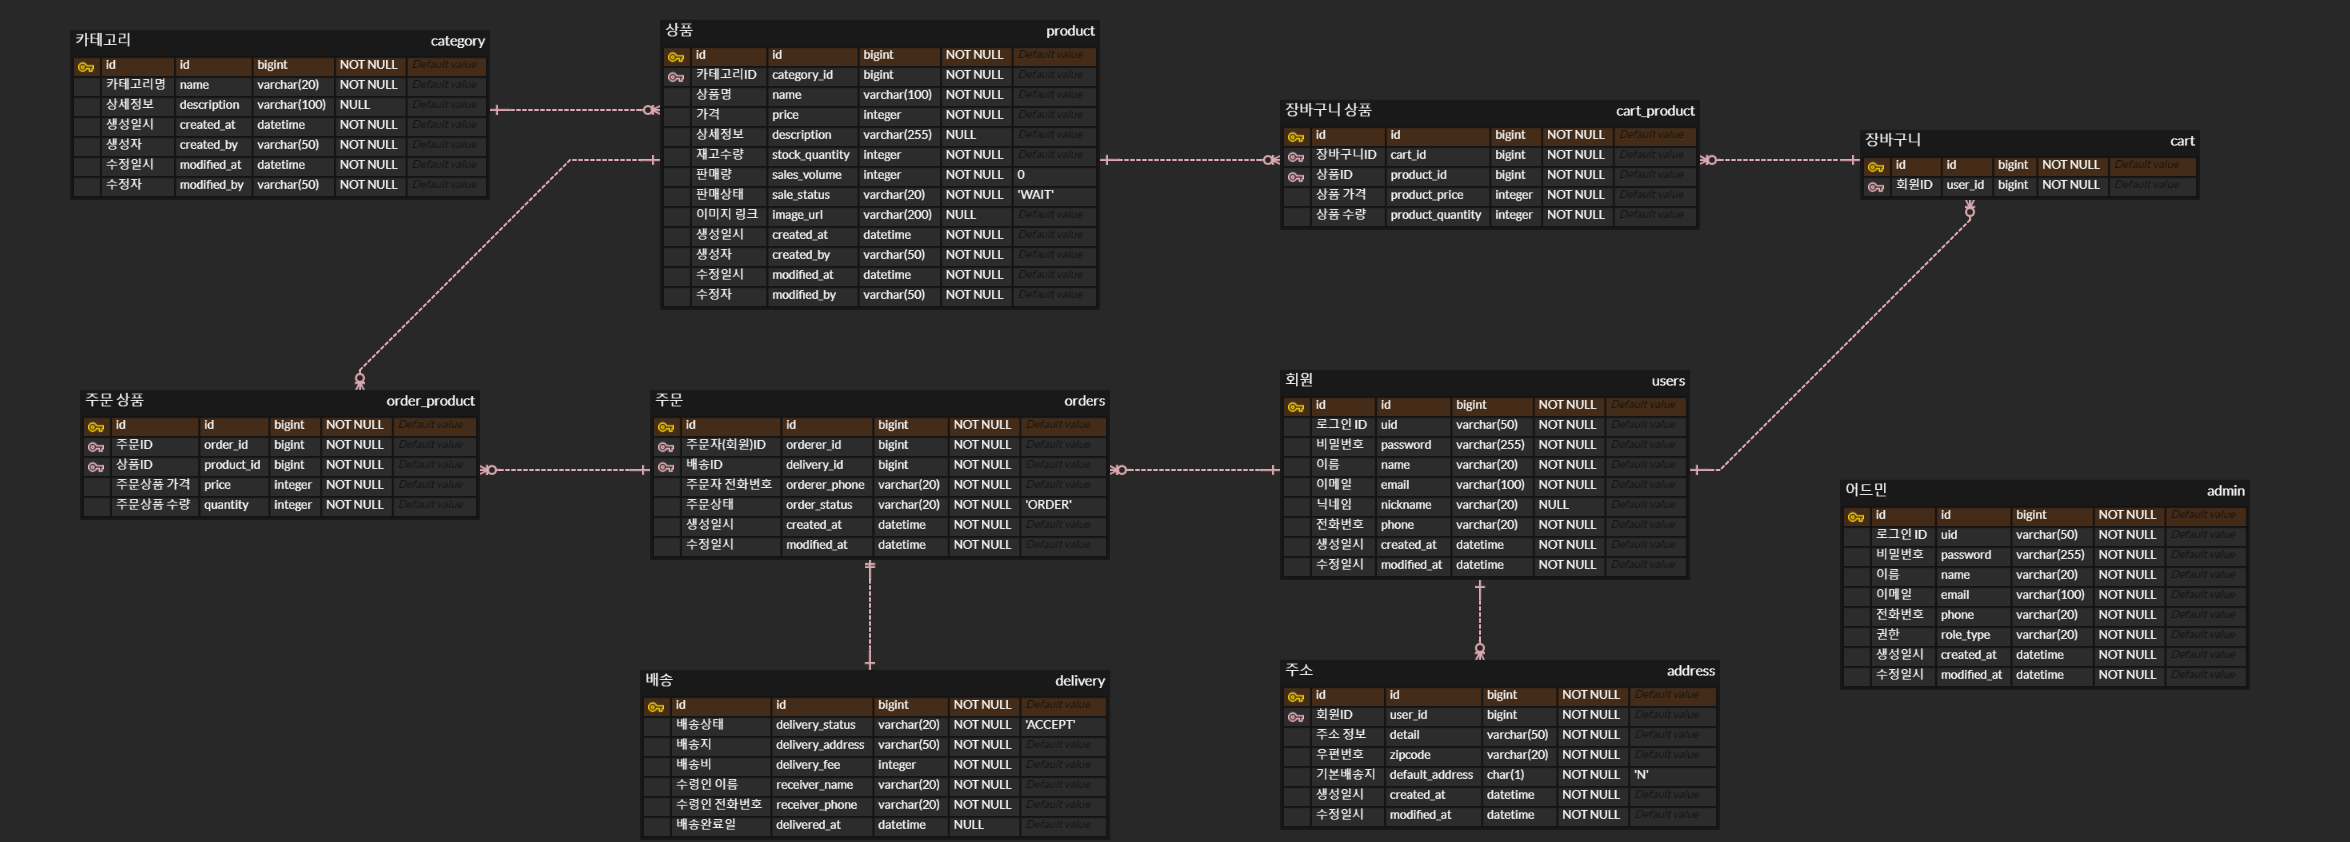
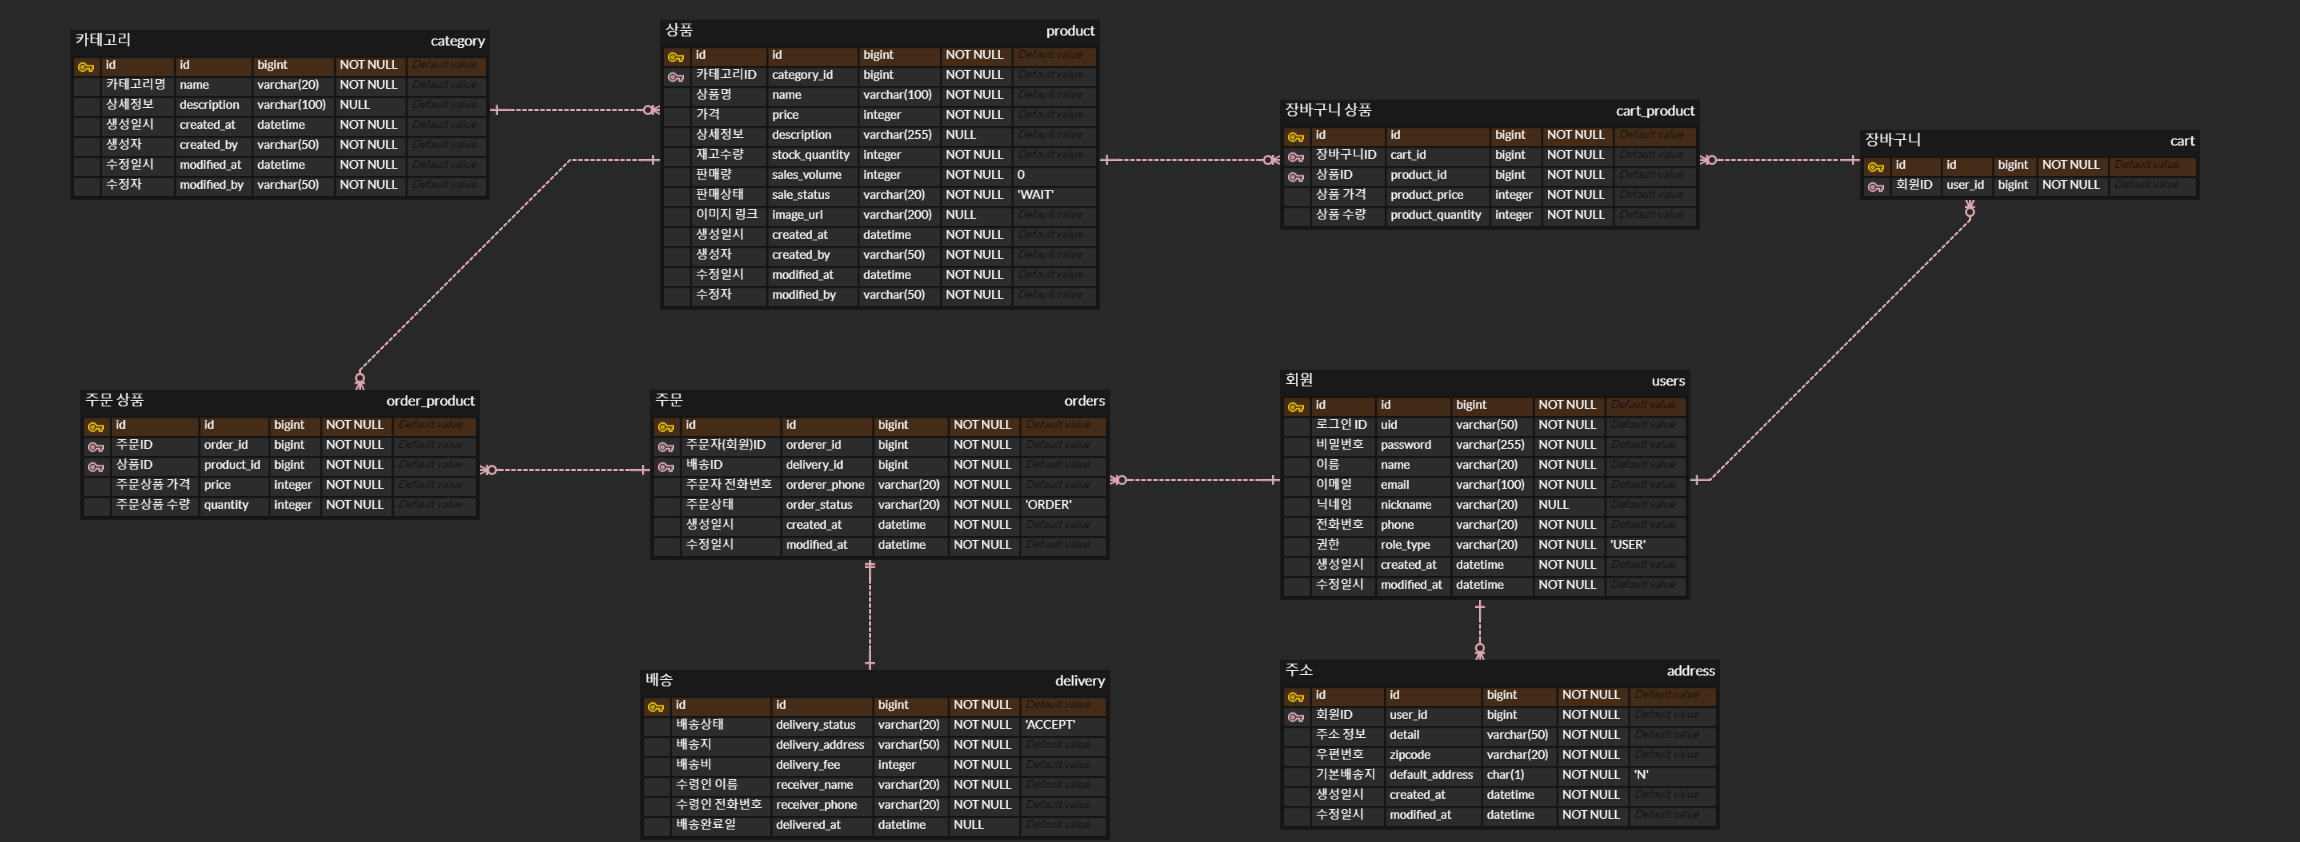
#41 - Admin 도메인 삭제
로그인을 구현하던 중, `User`와 `Admin`을 따로 두니까
시큐리티 검증할 때 어떻게 해야할 지 모르겠어서
`Admin`을 삭제하고, `User` 테이블로 합친 후 여기에 권한을 추가해줌.

diff --git a/src/main/java/com/been/onlinestore/service/UserService.java b/src/main/java/com/been/onlinestore/service/UserService.java
@@ -1,9 +1,8 @@
 package com.been.onlinestore.service;
 
-import com.been.onlinestore.domain.Admin;
 import com.been.onlinestore.domain.User;
 import com.been.onlinestore.domain.constant.RoleType;
-import com.been.onlinestore.repository.AdminRepository;
+import com.been.onlinestore.dto.UserDto;
 import com.been.onlinestore.repository.UserRepository;
 import lombok.RequiredArgsConstructor;
 import org.springframework.stereotype.Service;
@@ -17,53 +16,32 @@ import java.util.Optional;
 public class UserService {
 
     private final UserRepository userRepository;
-    private final AdminRepository adminRepository;
 
     public Long signUp(String uid, String password, String name, String email, String nickname, String phone, RoleType roleType) {
+        validateDuplicateUid(uid);
+        validateDuplicateEmail(email);
         if (roleType == null) {
-            return signUpUser(uid, password, name, email, nickname, phone);
+            return userRepository.save(User.of(uid, password, name, email, nickname, phone)).getId();
         } else {
-            return signUpAdmin(uid, password, name, email, phone, roleType);
+            return userRepository.save(User.of(uid, password, name, email, nickname, phone, roleType)).getId();
         }
     }
 
-    private Long signUpUser(String uid, String password, String name, String email, String nickname, String phone) {
-        validateDuplicateUserUid(uid);
-        validateDuplicateUserEmail(email);
-        return userRepository.save(User.of(uid, password, name, email, nickname, phone)).getId();
+    public Optional<UserDto> searchUser(String uid) {
+        return userRepository.findByUid(uid).map(UserDto::from);
     }
 
-    private Long signUpAdmin(String uid, String password, String name, String email, String phone, RoleType roleType) {
-        validateDuplicateAdminUid(uid);
-        validateDuplicateAdminEmail(email);
-        return adminRepository.save(Admin.of(uid, password, name, email, phone, roleType)).getId();
+    private void validateDuplicateUid(String uid) {
+        userRepository.findByUid(uid)
+                .ifPresent(user -> {
+                    throw new IllegalStateException("중복 ID 입니다.");
+                });
     }
 
-    private void validateDuplicateUserUid(String uid) {
-        Optional<User> user = userRepository.findByUid(uid);
-        if (user.isPresent()) {
-            throw new IllegalStateException("중복 ID 입니다.");
-        }
-    }
-
-    private void validateDuplicateUserEmail(String email) {
-        Optional<User> user = userRepository.findByEmail(email);
-        if (user.isPresent()) {
-            throw new IllegalStateException("이미 가입한 회원입니다.");
-        }
-    }
-
-    private void validateDuplicateAdminUid(String uid) {
-        Optional<Admin> admin = adminRepository.findByUid(uid);
-        if (admin.isPresent()) {
-            throw new IllegalStateException("중복 ID 입니다.");
-        }
-    }
-
-    private void validateDuplicateAdminEmail(String email) {
-        Optional<Admin> admin = adminRepository.findByEmail(email);
-        if (admin.isPresent()) {
-            throw new IllegalStateException("이미 가입한 회원입니다.");
-        }
+    private void validateDuplicateEmail(String email) {
+        userRepository.findByEmail(email)
+                .ifPresent(user -> {
+                    throw new IllegalStateException("이미 가입한 회원입니다.");
+                });
     }
 }

diff --git a/src/test/java/com/been/onlinestore/service/UserServiceTest.java b/src/test/java/com/been/onlinestore/service/UserServiceTest.java
@@ -1,8 +1,7 @@
 package com.been.onlinestore.service;
 
-import com.been.onlinestore.domain.Admin;
 import com.been.onlinestore.domain.User;
-import com.been.onlinestore.repository.AdminRepository;
+import com.been.onlinestore.dto.UserDto;
 import com.been.onlinestore.repository.UserRepository;
 import org.junit.jupiter.api.DisplayName;
 import org.junit.jupiter.api.Test;
@@ -10,6 +9,8 @@ import org.junit.jupiter.api.extension.ExtendWith;
 import org.mockito.InjectMocks;
 import org.mockito.Mock;
 import org.mockito.junit.jupiter.MockitoExtension;
+
+import java.util.Optional;
 
 import static com.been.onlinestore.util.UserTestDataUtil.createAdmin;
 import static com.been.onlinestore.util.UserTestDataUtil.createUser;
@@ -23,7 +24,6 @@ import static org.mockito.BDDMockito.then;
 class UserServiceTest {
 
     @Mock private UserRepository userRepository;
-    @Mock private AdminRepository adminRepository;
 
     @InjectMocks private UserService sut;
 
@@ -54,8 +54,8 @@ class UserServiceTest {
     @Test
     void test_signUpAdmin() {
         //Given
-        Admin admin = createAdmin();
-        given(adminRepository.save(any())).willReturn(admin);
+        User admin = createAdmin();
+        given(userRepository.save(any())).willReturn(admin);
 
         //When
         Long id = sut.signUp(
@@ -63,13 +63,43 @@ class UserServiceTest {
                 admin.getPassword(),
                 admin.getName(),
                 admin.getEmail(),
-                null,
+                admin.getNickname(),
                 admin.getPhone(),
                 admin.getRoleType()
         );
 
         //Then
         assertThat(id).isEqualTo(admin.getId());
-        then(adminRepository).should().save(any());
+        then(userRepository).should().save(any());
+    }
+
+    @DisplayName("존재하는 회원 ID를 검색하면, 회원 데이터를 Optional로 반환한다.")
+    @Test
+    void test_searchExistentUser() {
+        //Given
+        String uid = "user";
+        given(userRepository.findByUid(uid)).willReturn(Optional.of(createUser(uid)));
+
+        //When
+        Optional<UserDto> result = sut.searchUser(uid);
+
+        //Then
+        assertThat(result).isPresent();
+        then(userRepository).should().findByUid(uid);
+    }
+
+    @DisplayName("존재하지 않는 회원 ID를 검색하면, 비어있는 Optional을 반환한다.")
+    @Test
+    void test_searchNonExistentUser() {
+        //Given
+        String uid = "wrong-user";
+        given(userRepository.findByUid(uid)).willReturn(Optional.empty());
+
+        //When
+        Optional<UserDto> result = sut.searchUser(uid);
+
+        //Then
+        assertThat(result).isEmpty();
+        then(userRepository).should().findByUid(uid);
     }
 }

diff --git a/src/main/java/com/been/onlinestore/domain/User.java b/src/main/java/com/been/onlinestore/domain/User.java
@@ -1,10 +1,14 @@
 package com.been.onlinestore.domain;
 
+import com.been.onlinestore.domain.constant.RoleType;
 import lombok.Getter;
 import lombok.ToString;
+import org.hibernate.annotations.ColumnDefault;
 
 import javax.persistence.Column;
 import javax.persistence.Entity;
+import javax.persistence.EnumType;
+import javax.persistence.Enumerated;
 import javax.persistence.GeneratedValue;
 import javax.persistence.GenerationType;
 import javax.persistence.Id;
@@ -40,19 +44,29 @@ public class User extends BaseTimeEntity {
     @Column(nullable = false, length = 20)
     private String phone;
 
+    @Enumerated(EnumType.STRING)
+    @ColumnDefault("'USER'")
+    @Column(nullable = false, length = 20)
+    private RoleType roleType;
+
     protected User() {}
 
-    private User(String uid, String password, String name, String email, String nickname, String phone) {
+    private User(String uid, String password, String name, String email, String nickname, String phone, RoleType roleType) {
         this.uid = uid;
         this.password = password;
         this.name = name;
         this.email = email;
         this.nickname = nickname;
         this.phone = phone;
+        this.roleType = roleType;
     }
 
     public static User of(String uid, String password, String name, String email, String nickname, String phone) {
-        return new User(uid, password, name, email, nickname, phone);
+        return new User(uid, password, name, email, nickname, phone, RoleType.USER);
+    }
+
+    public static User of(String uid, String password, String name, String email, String nickname, String phone, RoleType roleType) {
+        return new User(uid, password, name, email, nickname, phone, roleType);
     }
 
     @Override

diff --git a/src/test/java/com/been/onlinestore/util/UserTestDataUtil.java b/src/test/java/com/been/onlinestore/util/UserTestDataUtil.java
@@ -1,7 +1,6 @@
 package com.been.onlinestore.util;
 
 import com.been.onlinestore.controller.dto.request.SignUpRequest;
-import com.been.onlinestore.domain.Admin;
 import com.been.onlinestore.domain.User;
 import com.been.onlinestore.domain.constant.RoleType;
 import org.springframework.test.util.ReflectionTestUtils;
@@ -9,8 +8,12 @@ import org.springframework.test.util.ReflectionTestUtils;
 public class UserTestDataUtil {
 
     public static User createUser() {
+        return createUser("testuser");
+    }
+
+    public static User createUser(String uid) {
         User user = User.of(
-                "testuser",
+                uid,
                 "testpassword",
                 "test user",
                 "e@mail.com",
@@ -21,12 +24,17 @@ public class UserTestDataUtil {
         return user;
     }
 
-    public static Admin createAdmin() {
-        Admin admin = Admin.of(
-                "testadmin",
+    public static User createAdmin() {
+        return createAdmin("testadmin");
+    }
+
+    public static User createAdmin(String uid) {
+        User admin = User.of(
+                uid,
                 "testpassword",
                 "test admin",
                 "e@mail.com",
+                "test admin",
                 "01012341234",
                 RoleType.ADMIN
         );
